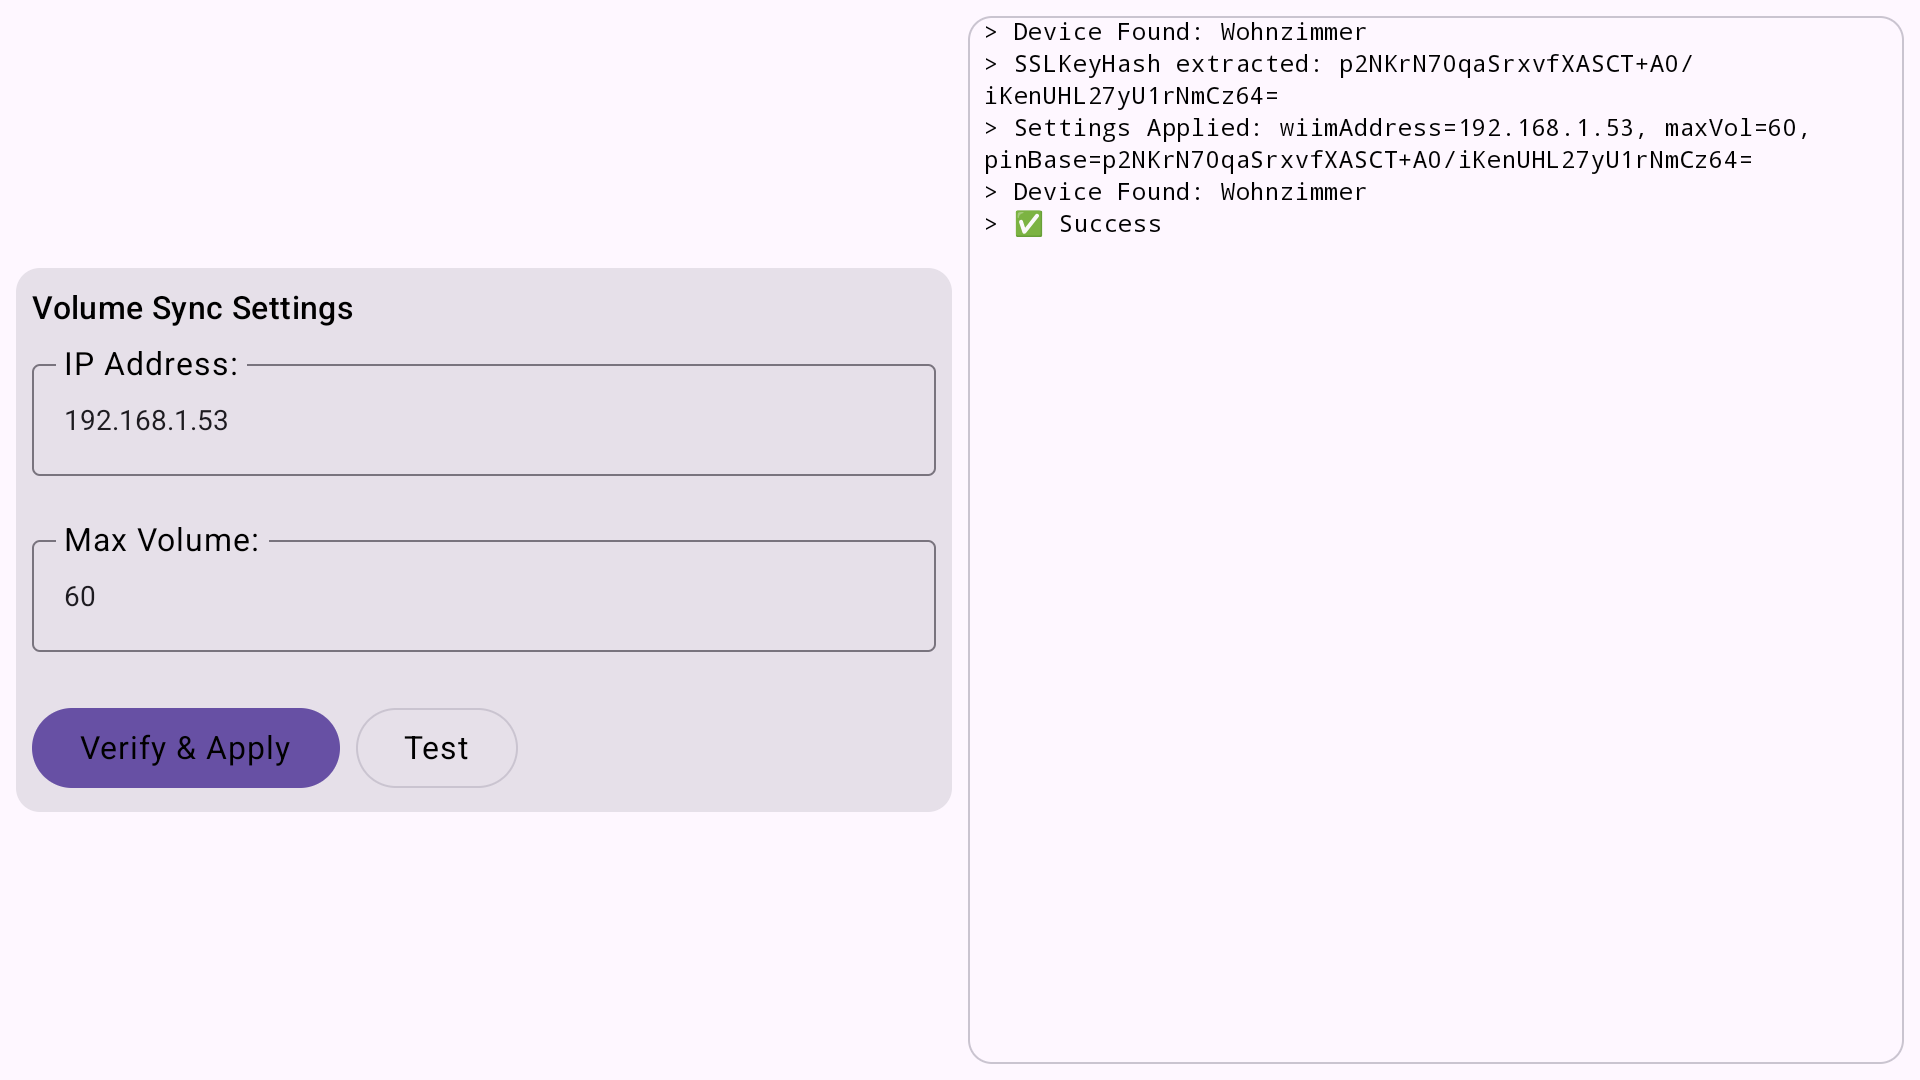
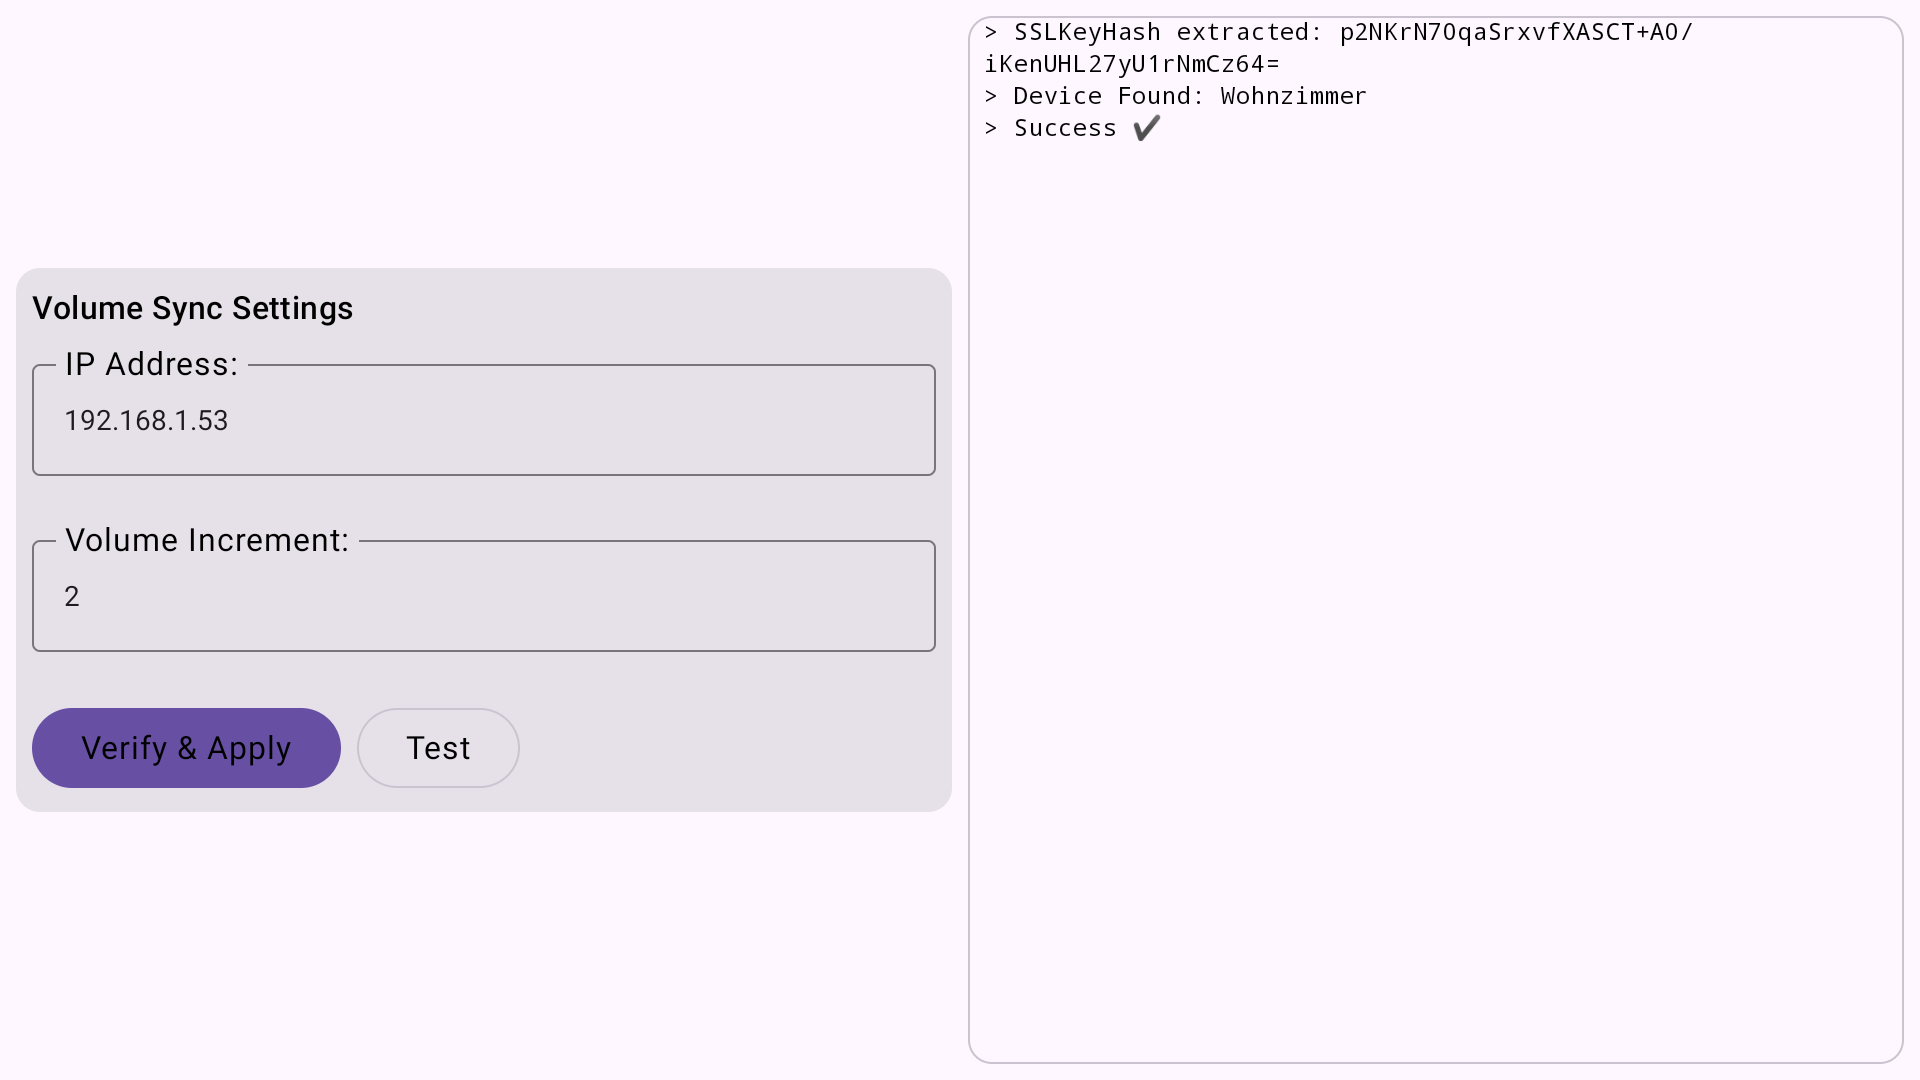
readme updated

diff --git a/readme.md b/readme.md
@@ -18,13 +18,12 @@ adb install wiim-volume-sync.apk
 
 ## Quick start
 
+- Enable WiiM Volume Sync in Accessibility services
+- Configure > enter IP Adress of your WiiM device > Apply & Config
+
 ![app-screen.png](img/app-screen.png)
 
-- Open the app from the Apps screen and set your WiiM Devices IP.
-- Set the max volume to your liking.
-
-> You may need to adjust the System Setting so you remote controls the AndroidTV Media/System
-> Volume.
+![accessibility-settings.png](img/accessibility-settings.png)
 
 ## Usage
 
@@ -32,21 +31,18 @@ Use your Android TVs remote to control the Volume on your WiiM Amp.
 
 ### Basic operation
 
-The apps polls the system volume in a 150ms interval and forwards it to your WiiM device over HTTP
-once it changed.
-
-WiiM Devices use a self signed certificate, which Android refuses to accept it by default. When
-setting the WiiM IP, the app fetches WiiM devices SSL certificate and stores its hash. It will be
-checked against the the WiiM Certificate again when sending commands.
+The App creates an accessibility service which intercepts Volume +/- commands and transforms them
+into a WiiM IP API call.
 
 ## Known issues and limitations
 
 The app was mostly hacked together in a day out of necessity. Expect a lot of them.
 
-Some things which might get changed:
+## Compatibility
 
-- the app should really use volume +/- key inputs to control the volume, not the system volume.
-- incremental instead of absolute volume changes
+Tested on a Nvidia Shield TV.
+
+> Intercepting Keystrokes might not work on newer devices.
 
 ## Contributing
 
